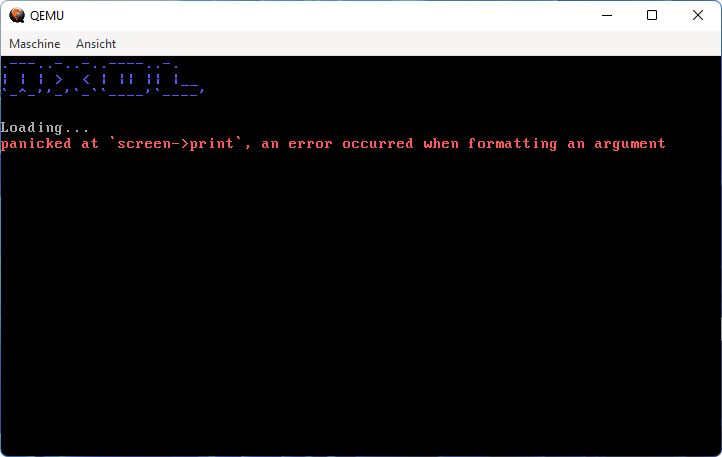
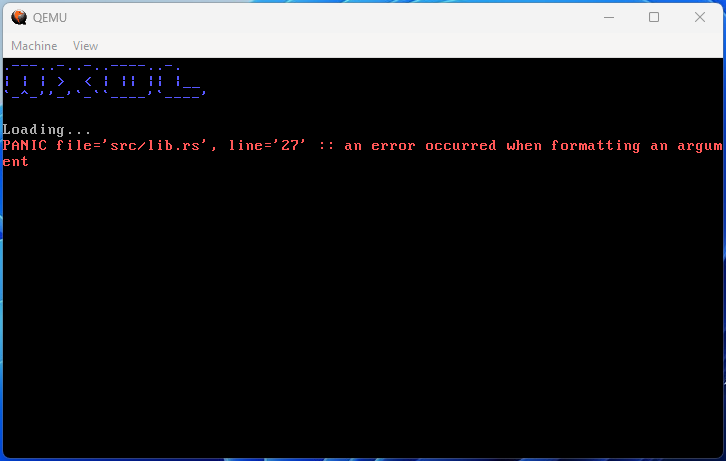
Better handling of panic. Some changes

Changed region(s): [[0.0, 0.0, 1.0, 1.0]]

diff --git a/src/lib.rs b/src/lib.rs
@@ -3,8 +3,11 @@
 #![feature(panic_info_message)]
 
 use core::arch::asm;
-use core::panic::PanicInfo;
 
+#[macro_use]
+mod macros;
+
+mod unwind;
 mod drivers;
 
 #[no_mangle]
@@ -12,11 +15,11 @@ extern fn _start() -> !
 {
   drivers::screen::screen_clear();
   
-  drivers::screen::set_color(drivers::screen::Colors::LightBlue as u8, drivers::screen::Colors::Black as u8);
+  set_color!(9, 0);
   println!(".---..-..-..----..-.");
   println!("| | | >  < | || || |__");
   println!("`-^-''-'`-``----'`----'\n");
-  drivers::screen::set_color(drivers::screen::Colors::LightGrey as u8, drivers::screen::Colors::Black as u8);
+  set_color!();
   
   println!("Loading...");
   
@@ -29,24 +32,12 @@ extern fn _start() -> !
   }
 }
 
-#[panic_handler]
-fn panic(info: &PanicInfo) -> !
-{
-  drivers::screen::set_color(drivers::screen::Colors::LightRed as u8, drivers::screen::Colors::Black as u8);
-  println!("{}", info.message().unwrap());
-  drivers::screen::set_color(drivers::screen::Colors::White as u8, drivers::screen::Colors::Black as u8);
-  
-  loop
-  {
-    hlt();
-  }
-}
-
 // This allows the CPU to go into a sleep state where it consumes much less energy.
 // Example: With an Intel Core i5 11400 in QEMU i get ~15% CPU usage without and ~0.2% with
 // https://en.wikipedia.org/wiki/HLT_(x86_instruction)
+#[doc(hidden)]
 #[inline(always)]
-fn hlt()
+pub(crate) fn hlt()
 {
   unsafe { asm!("hlt"); }
 }

diff --git a/src/drivers/screen.rs b/src/drivers/screen.rs
@@ -6,28 +6,6 @@ static mut SCREEN_SCHEME: u8 = 0;
 const VGA_WIDTH: u16 = 80;
 const VGA_HEIGHT: u16 = 25;
 
-#[allow(dead_code)]
-#[repr(u8)]
-pub(crate) enum Colors
-{
-  Black = 0,
-  Blue = 1,
-  Green = 2,
-  Cyan = 3,
-  Red = 4,
-  Magenta = 5,
-  Brown = 6,
-  LightGrey = 7,
-  DarkGrey = 8,
-  LightBlue = 9,
-  LightGreen = 10,
-  LightCyan = 11,
-  LightRed = 12,
-  LightMagenta = 13,
-  LightBrown = 14,
-  White = 15
-}
-
 pub(crate) fn set_color(fg: u8, bg: u8)
 {
   unsafe
@@ -101,28 +79,6 @@ pub(crate) fn _print(text: &str)
   {
     print_char(c);
   }
-}
-
-#[macro_export]
-macro_rules! print
-{
-  ($($arg:tt)*) =>
-  {
-    // we can use up to 1023 letters
-    let mut buf: [u8; 1024] = [0u8; 1024];
-    match $crate::drivers::screen::write_to::show(&mut buf, format_args!($($arg)*))
-    {
-      Ok(text) => $crate::drivers::screen::_print(text),
-      Err(error) => panic!("panicked at `screen->print`, {}", error)
-    }
-  };
-}
-
-#[macro_export]
-macro_rules! println
-{
-  () => ($crate::print!("\n"));
-  ($($arg:tt)*) => ($crate::print!("{}\n", format_args!($($arg)*)));
 }
 
 #[doc(hidden)]

diff --git a/src/macros.rs b/src/macros.rs
@@ -1,0 +1,28 @@
+#[macro_export]
+macro_rules! print
+{
+  ($($arg:tt)*) =>
+  {
+    // we can use up to 1023 letters
+    let mut buf: [u8; 1024] = [0u8; 1024];
+    match $crate::drivers::screen::write_to::show(&mut buf, format_args!($($arg)*))
+    {
+      Ok(text) => $crate::drivers::screen::_print(text),
+      Err(error) => panic!("{}", error)
+    }
+  };
+}
+
+#[macro_export]
+macro_rules! println
+{
+  () => ($crate::print!("\n"));
+  ($($arg:tt)*) => ($crate::print!("{}\n", format_args!($($arg)*)));
+}
+
+#[macro_export]
+macro_rules! set_color
+{
+  () => ($crate::drivers::screen::set_color(7 as u8, 0 as u8));
+  ($a:expr, $b:expr) => ($crate::drivers::screen::set_color($a as u8, $b as u8));
+}

diff --git a/src/unwind.rs b/src/unwind.rs
@@ -1,0 +1,25 @@
+#[cfg(not(test))]
+#[panic_handler]
+pub fn panic(info: &::core::panic::PanicInfo<'_>) -> !
+{
+  // get the file and the line of the error
+  let (file, line) = match info.location() {
+    Some(loc) => (loc.file(), loc.line()),
+    None => ("", 0)
+  };
+
+  set_color!(12, 0);
+  if let Some(m) = info.message() {
+    println!("PANIC file='{}', line='{}' :: {}", file, line, m);
+  } else if let Some(m) = info.payload().downcast_ref::<&str>() {
+    println!("PANIC file='{}', line='{}' :: {}", file, line, m);
+  } else {
+    println!("PANIC file='{}', line='{}' :: ?", file, line);
+  }
+  set_color!();
+
+  loop
+  {
+    crate::hlt();
+  }
+}
